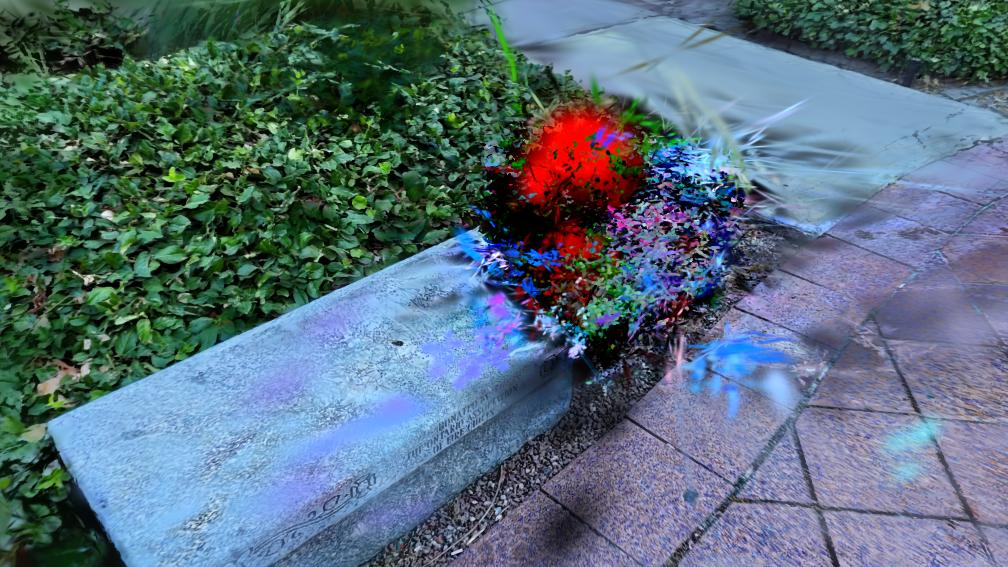
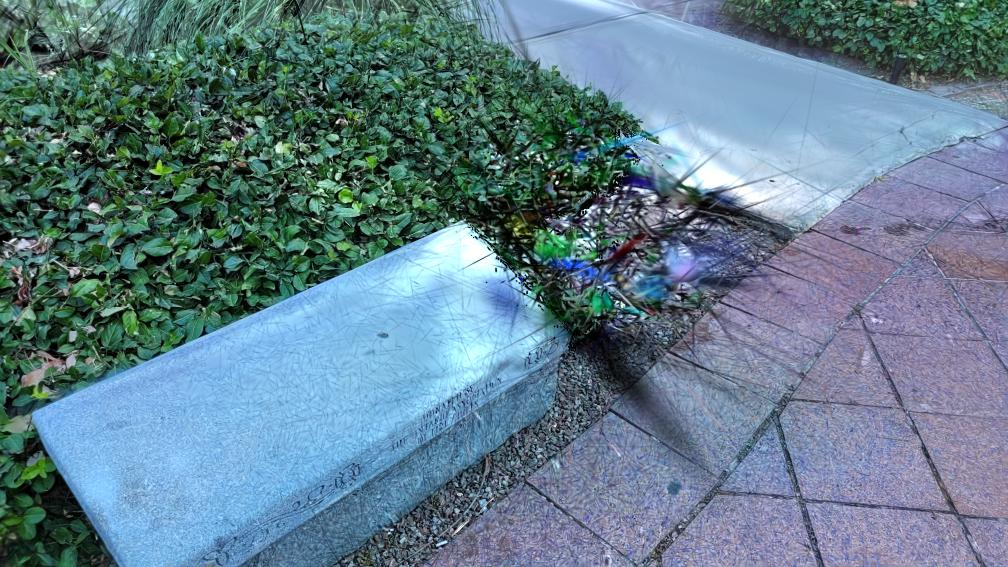
specify mask updated, normal sds finished

diff --git a/train.py b/train.py
@@ -46,28 +46,30 @@ from torchvision.transforms import ToPILImage
 to_pil = ToPILImage()  
 
 from torch.amp import custom_fwd, custom_bwd
-class SpecifyGradient(torch.autograd.Function):
+class MaskGradient(torch.autograd.Function):
     @staticmethod
     @custom_fwd(device_type='cuda')
-    def forward(ctx, input_tensor, gt_grad, mask):
-        # Save the provided gradient and mask for the backward pass.
-        ctx.save_for_backward(gt_grad, mask)
-        # Return a dummy value; its role is to trigger a backward pass that carries a scale.
-        return torch.ones(1, device=input_tensor.device, dtype=input_tensor.dtype)
+    def forward(ctx, input_tensor, mask):
+        # Save the mask for use in the backward pass.
+        ctx.save_for_backward(mask)
+        # Return the input as is.
+        return input_tensor
 
     @staticmethod
     @custom_bwd(device_type='cuda')
-    def backward(ctx, grad_scale):
-        # Retrieve the saved ground-truth gradient and mask.
-        gt_grad, mask = ctx.saved_tensors
-        # Apply the mask and scale the gradient.
-        masked_grad = gt_grad * mask * grad_scale
-        # The forward had three inputs: input_tensor, gt_grad, and mask.
-        # We only want to pass a gradient to input_tensor.
-        # Return gradients for input_tensor and None for the others.
-        return masked_grad, None, None
+    def backward(ctx, grad_output):
+        (mask,) = ctx.saved_tensors
+        # Multiply the incoming gradient by the mask.
+        grad_input = grad_output * mask
+        # The function had two inputs (input_tensor and mask); no gradient for mask.
+        return grad_input, None
 
+# prompt = ("Ultra-high resolution, photorealistic restoration with enhanced clarity and fine detail. "
+#           "The inpainted region is seamlessly blended with the surrounding area, featuring refined textures, "
+#           "crisp edges, natural lighting, and vibrant colors. A pristine, professional quality finish that looks "
+#           "like a high-end photograph.")
 
+prompt = "a dog"
 
 def training(dataset, opt, pipe, testing_iterations, saving_iterations, checkpoint_iterations, checkpoint, debug_from):
 
@@ -113,11 +115,12 @@ def training(dataset, opt, pipe, testing_iterations, saving_iterations, checkpoi
         if not viewpoint_stack:
             viewpoint_stack = scene.getTrainCameras().copy()
             viewpoint_indices = list(range(len(viewpoint_stack)))
-        rand_idx = randint(0, len(viewpoint_indices) - 1)
-        viewpoint_cam = viewpoint_stack.pop(rand_idx)
-        vind = viewpoint_indices.pop(rand_idx)
-
-
+            
+        viewpoint_cam = viewpoint_stack[0]
+        # rand_idx = randint(0, len(viewpoint_indices) - 1)
+        # viewpoint_cam = viewpoint_stack.pop(rand_idx)
+        # vind = viewpoint_indices.pop(rand_idx)
+        
         # Render
         if (iteration - 1) == debug_from:
             pipe.debug = True
@@ -126,7 +129,7 @@ def training(dataset, opt, pipe, testing_iterations, saving_iterations, checkpoi
 
         render_pkg = render(viewpoint_cam, gaussians, pipe, bg, use_trained_exp=dataset.train_test_exp, separate_sh=SPARSE_ADAM_AVAILABLE)
         image, viewspace_point_tensor, visibility_filter, radii = render_pkg["render"], render_pkg["viewspace_points"], render_pkg["visibility_filter"], render_pkg["radii"]
-
+        
         if viewpoint_cam.alpha_mask is not None:
             alpha_mask = viewpoint_cam.alpha_mask.cuda()
             image *= alpha_mask
@@ -155,16 +158,12 @@ def training(dataset, opt, pipe, testing_iterations, saving_iterations, checkpoi
                 Ll1depth = Ll1depth.item()
             else:
                 Ll1depth = 0
-        else: 
-            prompt = "a dog"
-            
+        else:             
             mask = viewpoint_cam.original_mask.clone().detach()
+            mask[mask != 0] = 1
+            _image = MaskGradient.apply(image, mask).clone()
             
-            temp_image = image.clone().detach()
-            
-            new_image = image*mask + temp_image*(1-mask)
-            
-            loss = train_step(prompt, new_image, mask)
+            loss = train_step(prompt, _image, mask)
             Ll1 = loss
             Ll1depth = 0
             

diff --git a/test.py b/test.py
@@ -1,22 +1,45 @@
-from guidance.sd_step import train_step
+import cv2
 from PIL import Image
 import torch
+from diffusers import StableDiffusionXLInpaintPipeline
 
-image = Image.open("/root/workspace/dataset/1/images/20220819_104221.jpg")
-mask_image = Image.open("/root/workspace/dataset/1/images/20220819_104221.jpg")
+# Specify the file paths.
+image_path = "/root/SDS-crossattn/data/1/images/20220819_104221.jpg"
+mask_path = "/root/SDS-crossattn/data/1/label/20220819_104221.jpg"
 
-loss = train_step("fuck", image, mask_image)
-loss.backward()
+# Read the image using OpenCV.
+# OpenCV loads images in BGR order by default.
+image_cv = cv2.imread(image_path)
+if image_cv is None:
+    raise ValueError(f"Image not found at {image_path}")
+# Convert the image from BGR to RGB.
+image_rgb = cv2.cvtColor(image_cv, cv2.COLOR_BGR2RGB)
+# Convert to PIL Image.
+input_image = Image.fromarray(image_rgb)
 
-# from diffusers import StableDiffusionXLInpaintPipeline
-# import torch
+# Read the mask using OpenCV.
+# For the mask, we read it in grayscale (single channel).
+mask_cv = cv2.imread(mask_path, cv2.IMREAD_GRAYSCALE) * 255
+if mask_cv is None:
+    raise ValueError(f"Mask not found at {mask_path}")
+# Convert to PIL Image (mode "L" for grayscale).
+mask_image = Image.fromarray(mask_cv)
 
-# # Load the inpainting model
-# pipe = StableDiffusionXLInpaintPipeline.from_pretrained(
-#     "diffusers/stable-diffusion-xl-1.0-inpainting-0.1",
-#     torch_dtype=torch.float16,  # Use float16 for efficiency
-# ).to("cuda")  # Move model to GPU if available
+# Load the Stable Diffusion XL Inpainting pipeline.
+pipe = StableDiffusionXLInpaintPipeline.from_pretrained(
+    "diffusers/stable-diffusion-xl-1.0-inpainting-0.1",
+    torch_dtype=torch.float16,  # Use float16 for efficiency.
+).to("cuda")  # Move model to GPU.
 
-# # Print a success message
-# print("Stable Diffusion XL Inpainting model loaded successfully!")
-# breakpoint()
+prompt = ("Ultra-high resolution, photorealistic restoration with enhanced clarity and fine detail. "
+          "The inpainted region is seamlessly blended with the surrounding area, featuring refined textures, "
+          "crisp edges, natural lighting, and vibrant colors. A pristine, professional quality finish that looks "
+          "like a high-end photograph.")
+
+# Run the inpainting pipeline.
+result = pipe(prompt=prompt, image=input_image, mask_image=mask_image, num_inference_steps=20)
+
+# Get the output image and save it.
+output_image = result.images[0]
+output_image.save("inpainted_output.png")
+

diff --git a/guidance/sd_step.py b/guidance/sd_step.py
@@ -90,8 +90,8 @@ def train_step(prompt: str = None,
     init_image = init_image.to(dtype=torch.float32)
     
     with torch.no_grad():
-        if mask_image is None:
-            mask_image = torch.zeros((1, 1, height, width), device=device)
+        if mask_image is not None:
+            mask_image = torch.ones((1, 1, height, width), device=device)
         
         mask = pipe.mask_processor.preprocess(
             mask_image, height=height, width=width, resize_mode=resize_mode, crops_coords=crops_coords
@@ -235,7 +235,7 @@ def train_step(prompt: str = None,
     
     grad = w(alphas[latent_timestep.to(torch.int)]) * (noise_pred - noise)
     
-    grad = torch.nan_to_num(grad)
+    grad = torch.nan_to_num(grad * 1)
     loss = SpecifyGradient.apply(latents, grad)
     
     return loss

diff --git a/scene/cameras.py b/scene/cameras.py
@@ -14,6 +14,7 @@ from torch import nn
 import numpy as np
 from utils.graphics_utils import getWorld2View2, getProjectionMatrix
 from utils.general_utils import PILtoTorch
+
 import cv2
 
 class Camera(nn.Module):
@@ -43,7 +44,7 @@ class Camera(nn.Module):
         gt_image = resized_image_rgb[:3, ...]
         
         resized_mask_rgb = PILtoTorch(mask, resolution)
-        gt_mask = resized_mask_rgb[:3, ...]
+        gt_mask = resized_mask_rgb[:1, ...]
         
         self.alpha_mask = None
         if resized_image_rgb.shape[0] == 4:
